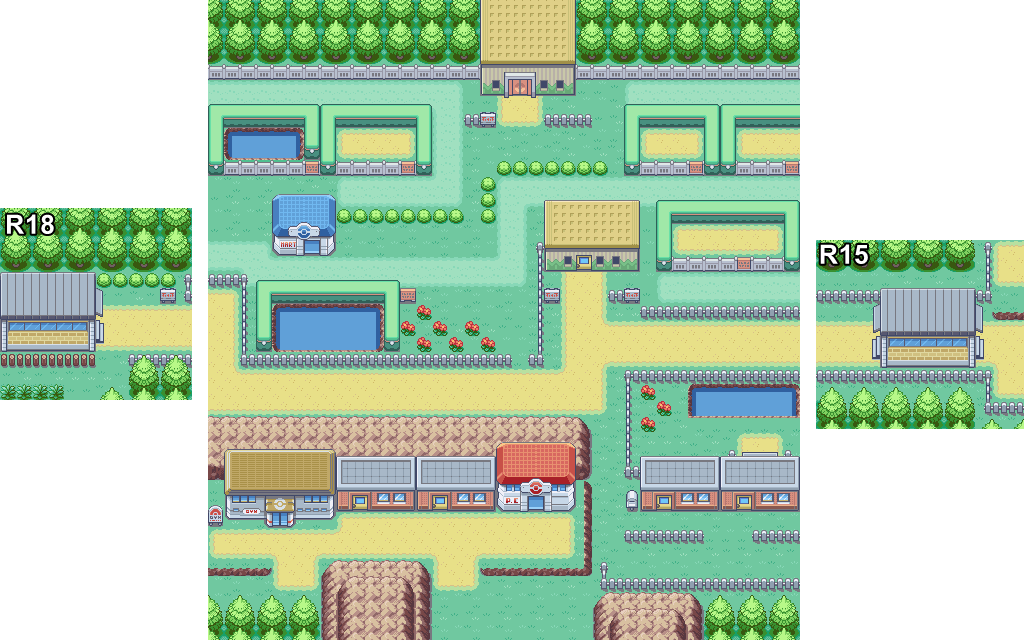
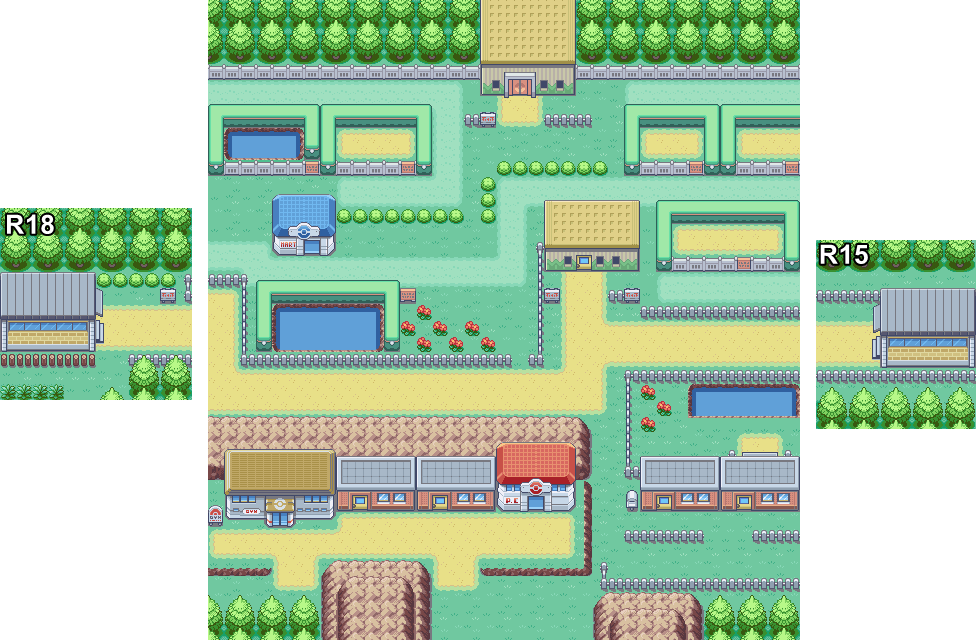
FRLG changes

diff --git a/games/frlg_nosevii.js b/games/frlg_nosevii.js
@@ -31,6 +31,7 @@ let frlg_nosevii = {
         r2:               {x: 24,  y: 48,  w: 8,  h: 8,  name: "Route 2"                                                     },
         r10:              {x: 136, y: 32,  w: 8,  h: 8,  name: "Route 10"                                                    },
         r12:              {x: 136, y: 72,  w: 8,  h: 8,  name: "Route 12"                                                    },
+        r15:              {x: 98,  y: 96,  w: 8,  h: 8,  name: "Route 15"                                                    },
 
         // Important locations
         cerulean_cave:    {x: 96,  y: 16,  w: 8,  h: 8,  name: "Cerulean Cave"                                               },
@@ -48,6 +49,7 @@ let frlg_nosevii = {
         rocktunnel1:	  {x: 128, y: 32,  w: 8,  h: 8,  name: "Rock Tunnel",                  								 },
 		rocktunnel2:	  {x: 128, y: 39,  w: 8,  h: 8,  name: "Rock Tunnel",                   							 },
         pokemontower:     {x: 144, y: 48,  w: 8,  h: 8,  name: "Pokémon Tower"                                               },
+        cyclingroad:      {x: 48,  y: 72,  w: 8,  h: 8,  name: "Cycling Road"                                                },
     },
 
     // Undefined fields:
@@ -151,7 +153,6 @@ let frlg_nosevii = {
             se1:                {x: 670,  y: 468, name: "Fuchsia City"        },
             se2:                {x: 759,  y: 502, name: "Fuchsia City"        },
             r15_left:           {x: 859,  y: 303, name: "R15 (Fuchsia)"       },
-            r15_right:          {x: 968,  y: 349, name: "R15 (Route)"         },
         },
         gates: {
             r11_w:              {x: 42,   y: 74,  name: "Gate (Route 11)"     },
@@ -238,6 +239,9 @@ let frlg_nosevii = {
             v_gate_e:           {x: 698,  y: 251, name: "R2 (Viridian)"       },
             hm_bot:             {x: 582,  y: 146, name: "R2 (HM Flash)"       },
 			hm_top:             {x: 582,  y: 47,  name: "R2 (HM Flash)"       },
+        },
+        r15: {
+			gate:               {x: 126,  y: 92,  name: "Route 15"            },
         },
         rocket_hideout: {
             b1f_stairs_w:       {x: 178,  y: 69,  name: "Rocket Hideout B1F"  },
@@ -439,6 +443,10 @@ let frlg_nosevii = {
 			f5_up:   {x: 590, y: 499, corridor: "f5_down", name: "Pokémon Tower (5F)" },
 			f6_down: {x: 441, y: 134, corridor: "f6_up",   name: "Pokémon Tower (6F)" },
 			f6_up:   {x: 281, y: 218, corridor: "f6_down", name: "Pokémon Tower (6F)" },
+        },
+        cyclingroad: {
+            top: {x: 147, y: 60,  corridor: "bot" },
+			bot: {x: 155, y: 215, corridor: "top" },
         },
     },
 

diff --git a/games/frlg.js b/games/frlg.js
@@ -38,6 +38,7 @@ let frlg = {
         r2:               {x: 24,  y: 48,  w: 8,  h: 8,  name: "Route 2"                                                     },
         r10:              {x: 136, y: 32,  w: 8,  h: 8,  name: "Route 10"                                                    },
         r12:              {x: 136, y: 72,  w: 8,  h: 8,  name: "Route 12"                                                    },
+        r15:              {x: 98,  y: 96,  w: 8,  h: 8,  name: "Route 15"                                                    },
 
         // Important locations
         cerulean_cave:    {x: 96,  y: 16,  w: 8,  h: 8,  name: "Cerulean Cave"                                               },
@@ -59,6 +60,7 @@ let frlg = {
         rocktunnel1:	  {x: 128, y: 32,  w: 8,  h: 8,  name: "Rock Tunnel",                  								 },
 		rocktunnel2:	  {x: 128, y: 39,  w: 8,  h: 8,  name: "Rock Tunnel",                   							 },
         pokemontower:     {x: 144, y: 48,  w: 8,  h: 8,  name: "Pokémon Tower"                                               },
+        cyclingroad:      {x: 48,  y: 72,  w: 8,  h: 8,  name: "Cycling Road"                                                },
     },
 
     // Undefined fields:
@@ -207,7 +209,6 @@ let frlg = {
             se1:                {x: 670,  y: 468, name: "Fuchsia City"        },
             se2:                {x: 759,  y: 502, name: "Fuchsia City"        },
             r15_left:           {x: 859,  y: 303, name: "R15 (Fuchsia)"       },
-            r15_right:          {x: 968,  y: 349, name: "R15 (Route)"         },
         },
         gates: {
             r11_w:              {x: 42,   y: 74,  name: "Gate (Route 11)"     },
@@ -358,6 +359,9 @@ let frlg = {
             gate_s:             {x: 158,  y: 105, name: "R12 (Route)"         },
             gate_n:             {x: 158,  y: 24,  name: "R12 (Lavender)"      },
             r11_gate:           {x: 38,   y: 217, name: "R12 (Route)"         },
+        },
+        r15: {
+			gate:               {x: 126,  y: 92,  name: "Route 15"            },
         },
         r2: {
             p_gate_w:           {x: 93,   y: 211, name: "R2 (Pewter)"         },
@@ -614,6 +618,10 @@ let frlg = {
 			f5_up:   {x: 590, y: 499, corridor: "f5_down", name: "Pokémon Tower (5F)" },
 			f6_down: {x: 441, y: 134, corridor: "f6_up",   name: "Pokémon Tower (6F)" },
 			f6_up:   {x: 281, y: 218, corridor: "f6_down", name: "Pokémon Tower (6F)" },
+        },
+        cyclingroad: {
+            top: {x: 147, y: 60,  corridor: "bot" },
+			bot: {x: 155, y: 215, corridor: "top" },
         },
     },
 
